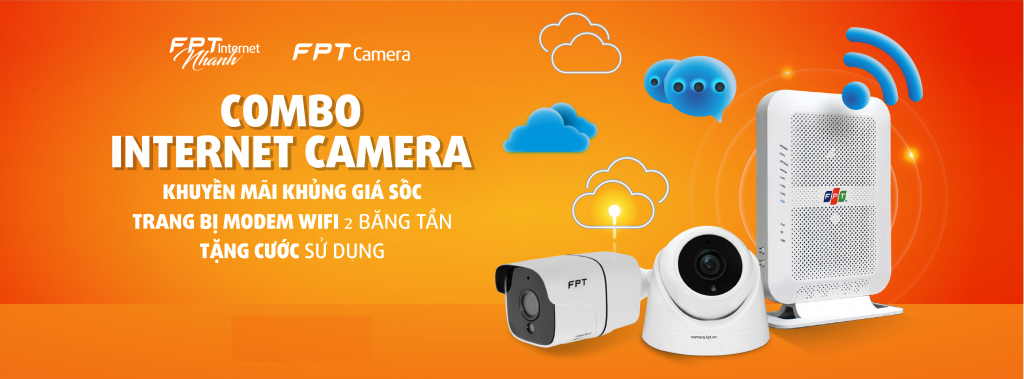
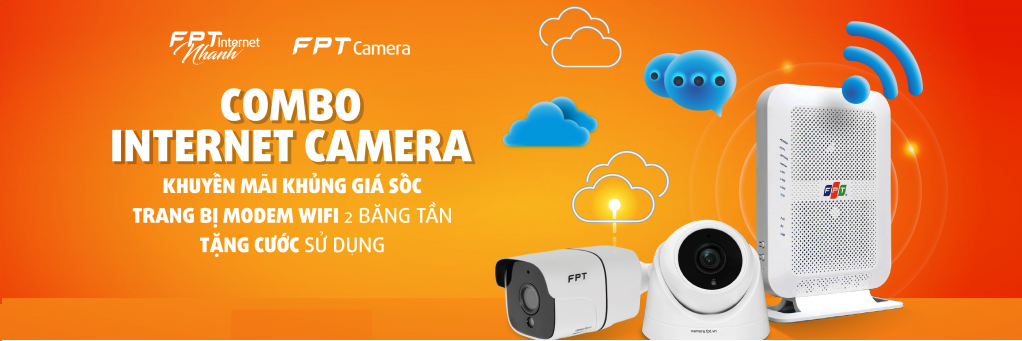
Chỉnh sửa ảnh baner

diff --git a/Pages/index.php b/Pages/index.php
@@ -5,17 +5,13 @@ include "../Template/header.php";
     <ol class="carousel-indicators">
         <li data-target="#carouselExampleIndicators" data-slide-to="0" class="active"></li>
         <li data-target="#carouselExampleIndicators" data-slide-to="1"></li>
-        <li data-target="#carouselExampleIndicators" data-slide-to="2"></li>
     </ol>
     <div class="carousel-inner">
         <div class="carousel-item active">
-            <img src="../Assets/img/Camera-fpt-banner-1024x379-1.png" class="d-block w-100" alt="">
+            <img src="../Assets/img/Camera-fpt-banner-1024x379-1.png" class="d-block" alt="">
         </div>
         <div class="carousel-item">
-            <img src="../Assets/img/internet-fpt-vung-tau-1-1536x476.webp" class="d-block w-100" alt="">
-        </div>
-        <div class="carousel-item">
-            <img src="https://via.placeholder.com/1348x400" class="d-block w-100" alt="">
+            <img src="../Assets/img/internet-fpt-vung-tau-1-1536x476.webp" class="d-block" alt="">
         </div>
     </div>
     <a class="carousel-control-prev" href="#carouselExampleIndicators" role="button" data-slide="prev">

diff --git a/Template/header.php b/Template/header.php
@@ -13,8 +13,8 @@
     <script src="https://code.jquery.com/jquery-3.5.1.slim.min.js"></script>
     <script src="https://cdn.jsdelivr.net/npm/@popperjs/core@1.16.1/dist/umd/popper.min.js"></script>
     <script src="https://stackpath.bootstrapcdn.com/bootstrap/4.5.2/js/bootstrap.min.js"></script>
-
     <link rel="stylesheet" href="../Assets/css/style.css">
+    <link rel="stylesheet" href="../Assets/css/baner.css">
 </head>
 
 <body>
